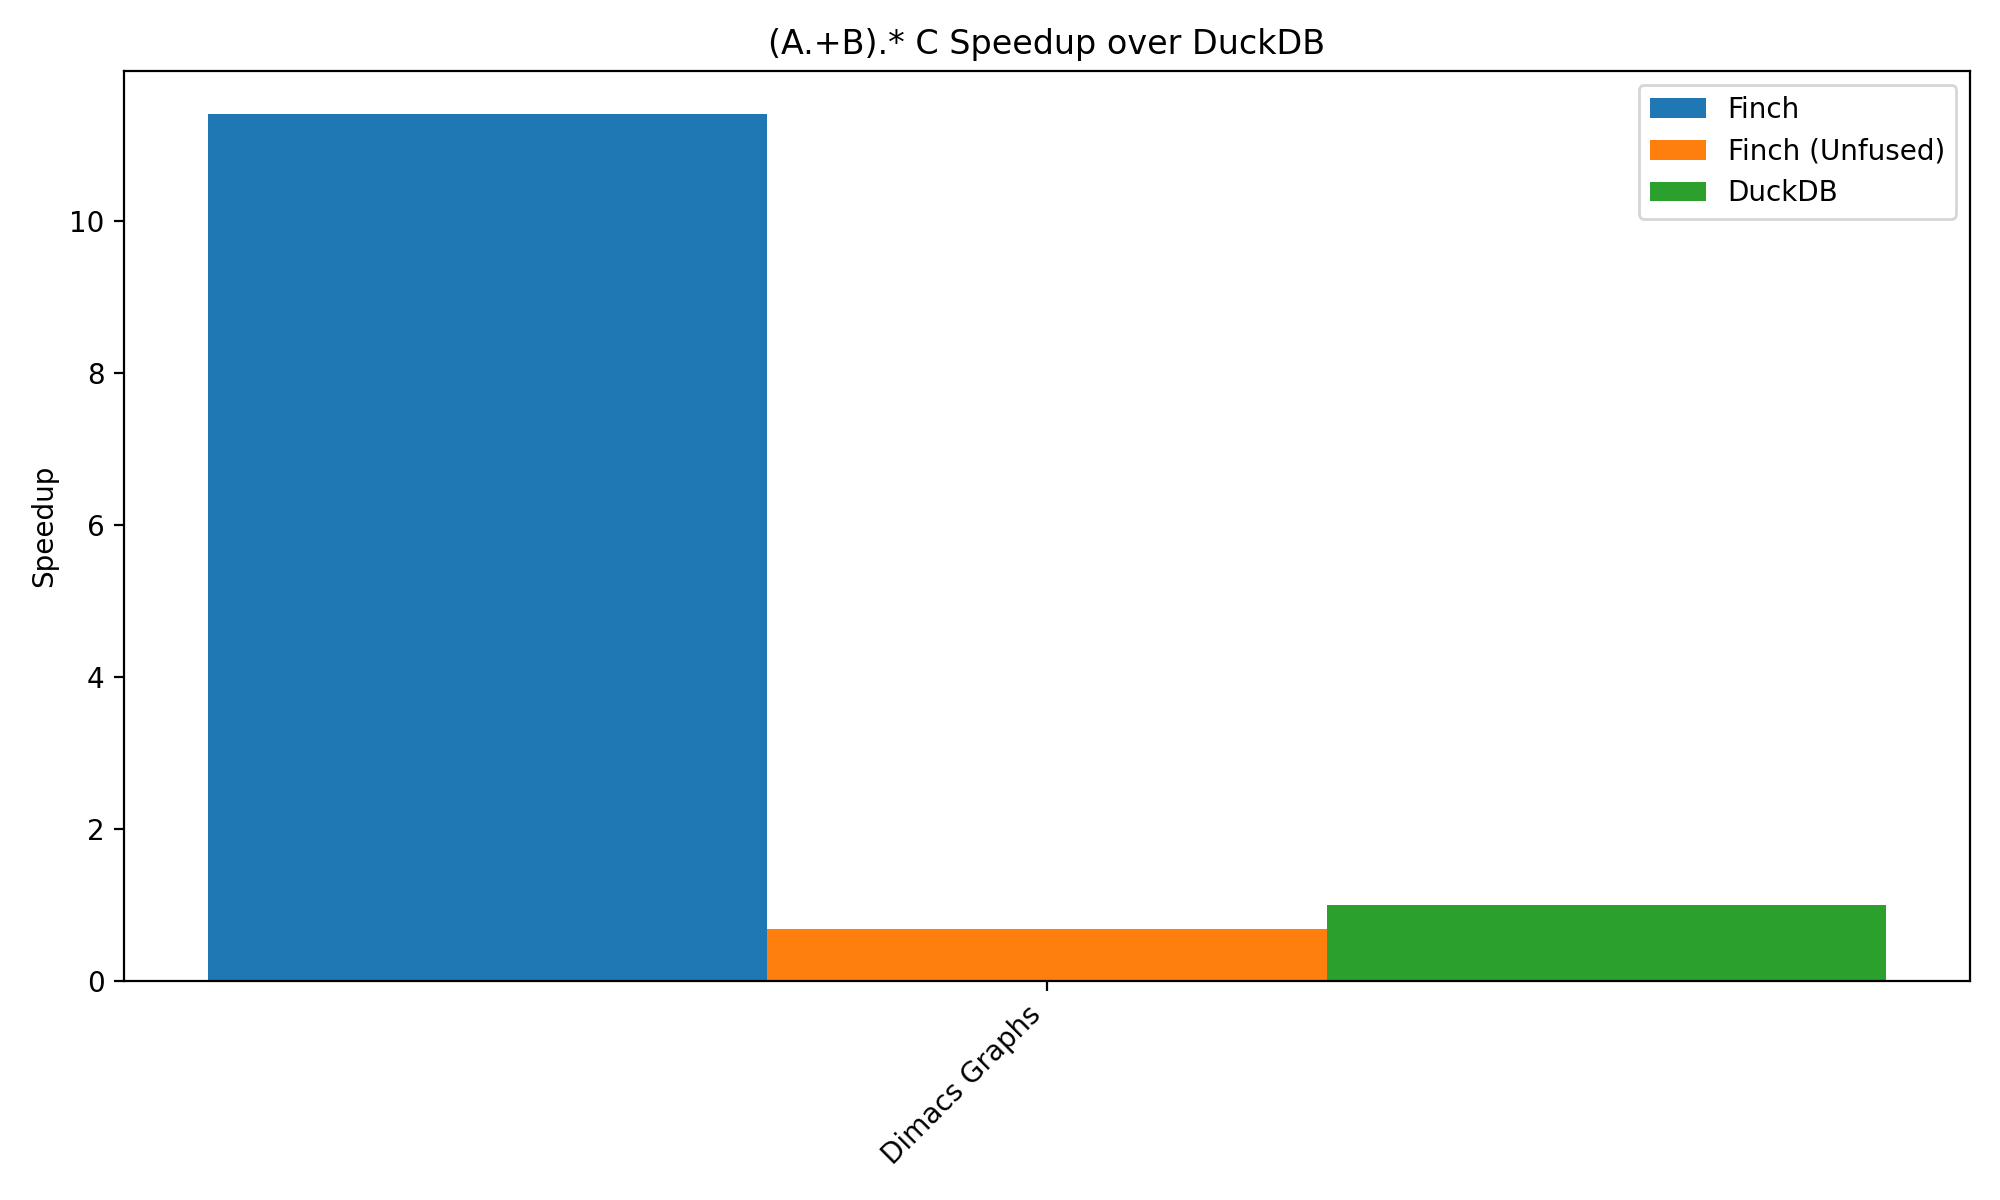
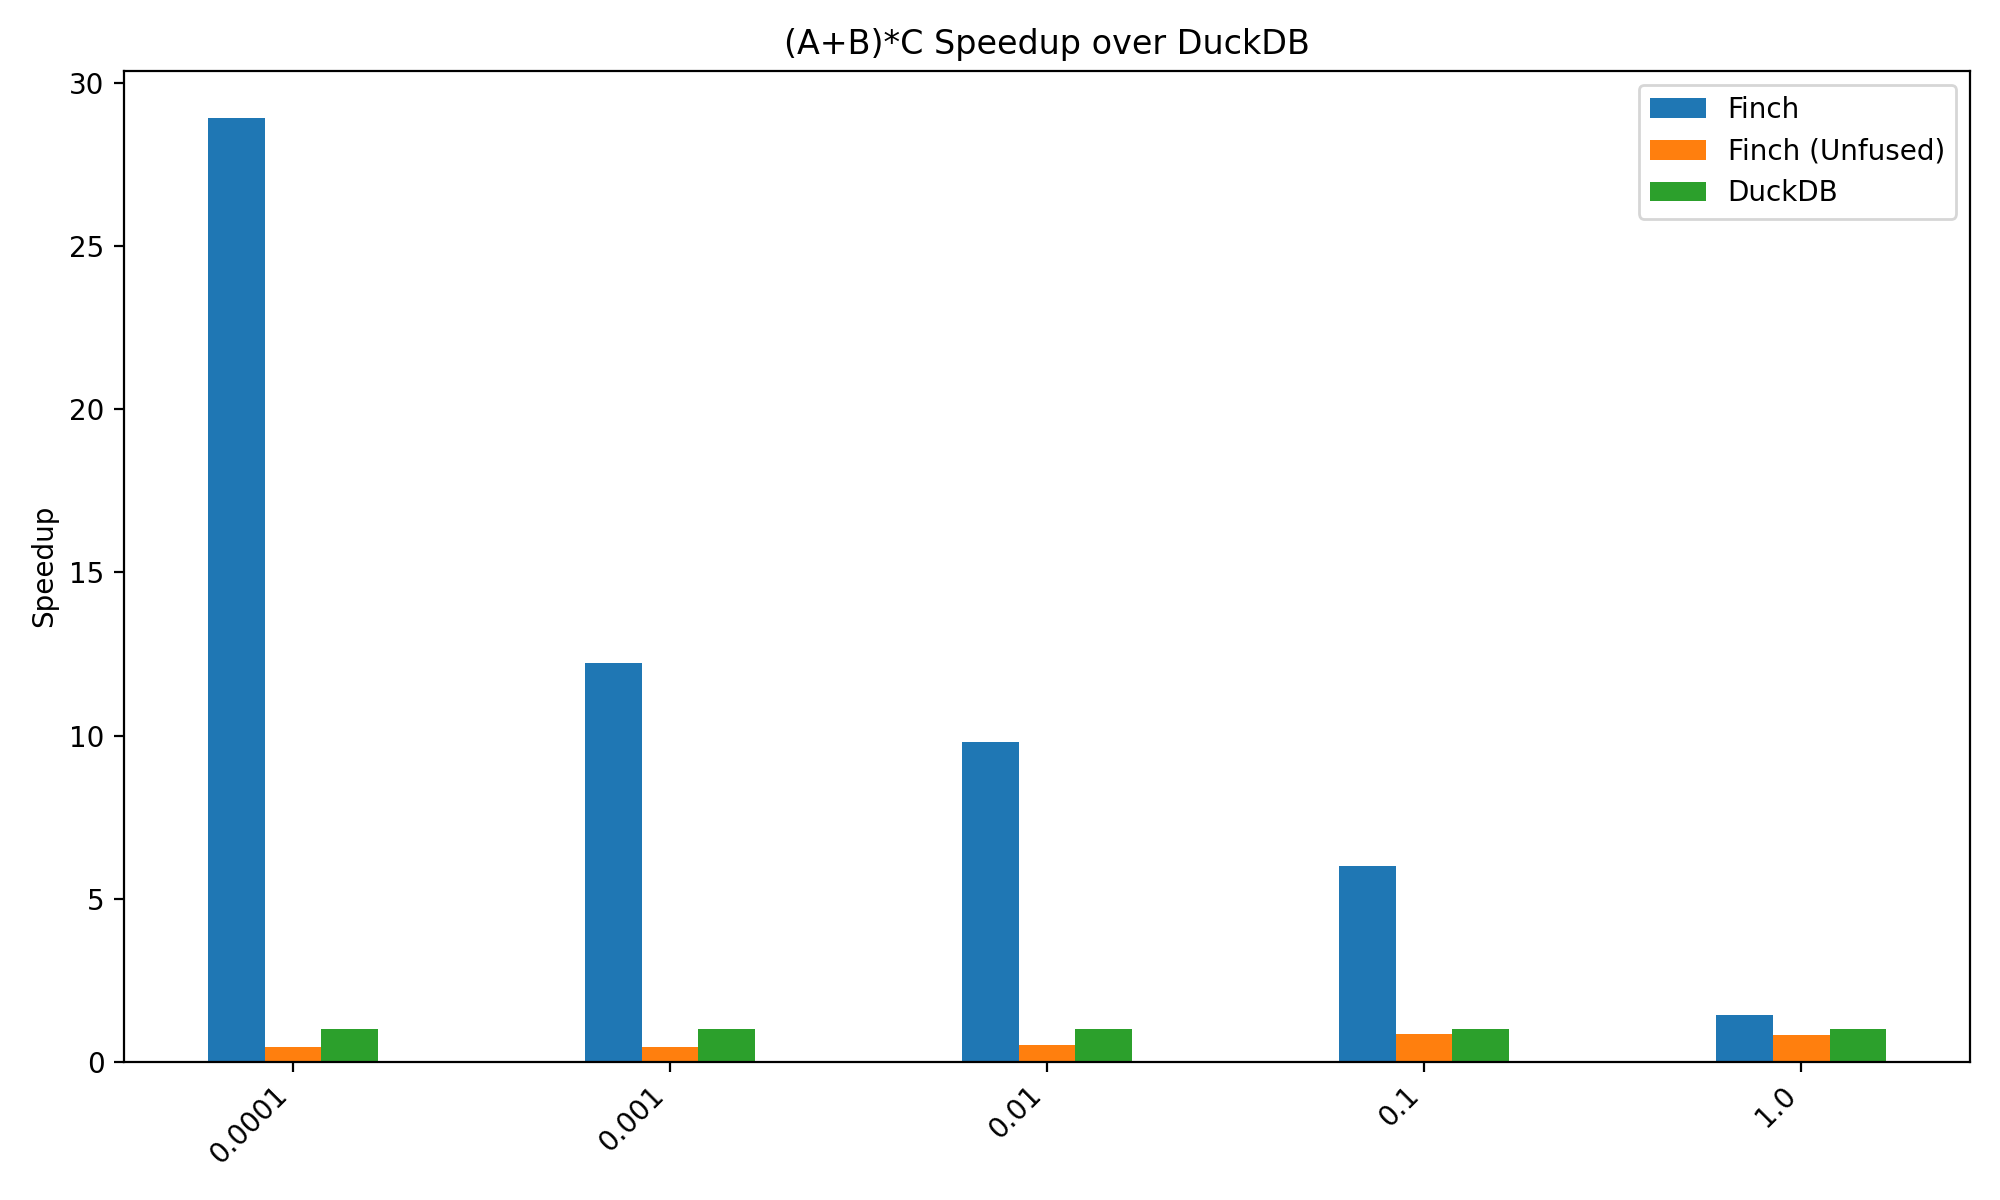
Update on Overleaf.

diff --git a/sections/eval.tex b/sections/eval.tex
@@ -289,17 +289,17 @@ Given this language, we now describe how to define a few example functions from 
 \end{align*}
 Notably, these plans do not specify important details about the computation such as the format of intermediates and the order of the loops. In the following discussion, we provide sensible heuristics and show that they provide good performance on important kernels. However, for larger or more complex programs, it would be important to apply a cost-based optimization strategy which we leave for future work.
 
+\subsubsection{Standardizing \& Heuristic Optimization}
+Before a plan in Finch Logic can be interpreted, it must be converted to a standard form which resolves the above questions about loop ordering and output formatting. This standard form has a few syntactic requirements, but the semantically important requirements are 1) all inputs (i.e. tables and alias operators) in a query's RHS must conform to a common ordering of the indices 2) the outermost operator of each query's RHS must be a reformat 3) the expression within the reformat must be a pointwise expression, optionally wrapped in an aggregate operator. The former allows the interpreter to identify the loop order for each kernel. The second determines the output format for each intermediate. The last one guarantees that the innermost expression can be computed as a single kernel.
+
+During the standardization process, a concordization pass is performed which examines each query in order and selects a loop order based on a heuristic which loops over intersecting variables first. Then, each query is examined again and a transposition query is inserted for each input which doesn't match the loop order and then the input is replaced with an alias. At this point, the first semantic requirement is satisfied. Next, a formatting pass is performed which examines each query and selects a level format for each output index based on the formats of the inputs and whether random writes are required. The procedure for this is a simple set of rules which attempts to aggressively preserve the structure present in the input tensors.
+
+
 \subsubsection{Finch Interpreter} 
+Once the Finch Logic program has been converted to the standard form, the Finch Interpreter can execute each query, in order, through a straightforward lowering process. First, the output format is identified by unpacking the outer $\finchreformat$ statement. Next, the inner expression of the is unpacked to identify the aggregate operator and to convert the pointwise expression into a Finch expression. At this point, any aliases to the result of previous queries are replaced with an access to the actual tensor. Lastly, the concordant loop order is identified and instantiated. At this point, the lowered query can be compiled and executed with the Finch compiler, and the result is assigned to $name$ in the plan's scope before proceeding to the next query in the plan. 
 
 
-\textbf{Lowering}
-
-\textbf{Heuristic Optimization}
-
-\subsubsection{Finch Interpreter}
-
-Find an example where fusing the python interface gives a big speedup over non-fused kernels.
-
+\subsubsection{The Benefits of Kernel Fusion}
 
 \begin{figure}
 	\includegraphics[width=\linewidth]{triangle_count_speedup_over_duckdb.png}
@@ -308,7 +308,7 @@ Find an example where fusing the python interface gives a big speedup over non-f
 
 \begin{figure}
 	\includegraphics[width=\linewidth]{elementwise_speedup_over_duckdb.png}
-    \caption{Performance of Finch on elementwise (A+B)*C kernel.}
+    \caption{Performance of Finch on elementwise (A+B)*C kernel as the sparsity of C varies.}
 \end{figure}
 
 \begin{figure}
@@ -322,3 +322,5 @@ Find an example where fusing the python interface gives a big speedup over non-f
 %in-place.
 %dot((v^t .* u), w)) vs. 
 %(v^t .* dot(u, w))
+
+\willow{Note: I may want to explain format inference somewhere in here, but I'll have to get to it a little later, perhaps after the paper deadline}

diff --git a/sections/intro.tex b/sections/intro.tex
@@ -161,15 +161,14 @@ This trade-off is visualized in figure \ref{fig:datavsprogram}.
   \label{tab:data_structures}
 \end{table}
 \teo{ New paragraph:
-Note: This first sentence is still problematic; we need to say something other than tightly integrated so that we can be different from that. But I am not sure what.
 %
-Many of these special purpose compilers represent a program's control flow via a specialized data structure that is tightly integrated with the class of supported data structures.
+Many of these special purpose compilers represent a program's control flow via a specialized data structure that is tightly integrated with a narrow class of supported data structures.
 %
 For example, TACO's merge lattices allows it to represent iterations over subsets of rectangular grids where non-zero values are produced whereas the polyhedral model allows various compilers to represent dense computations on irregular regions~\cite{kjolstad_tensor_2017, grosser2012polly}.
 %
 Taichi represents general control flow with specialized instruction for accessing a single sparse structure drawn from a particular class, which is why it supports the most control flow for a single sparse structure~\cite{hu_taichi_2019}.
 %
-Furthermore, the limits of a DSL can be traced to the tight coupling of a program's control flow with the data structure: many new TACO features required modifying algorithms that worked with TACO's merge lattices and Tiramisu can express programs that Halide can't because Tiramisu uses a polyhedral model as opposed to a model built on iterating over regular grids~\cite{kjolstad_tensor_2017, henry_compilation_2021, senanayake2020sparse, baghdadi2019tiramisu}.
+Furthermore, the limits and advantages of a DSL can be traced to the specific coupling of a program's control flow with the data structure: many new TACO features required modifying algorithms that worked with TACO's merge lattices and Tiramisu can express programs that Halide can't because Tiramisu uses a polyhedral model as opposed to a model built on iterating over regular grids~\cite{kjolstad_tensor_2017, henry_compilation_2021, senanayake2020sparse, baghdadi2019tiramisu}.
 %
 In this work, we will choose find a new representation of a program's data structures and control flows that covers a wide range of programs.
 %
